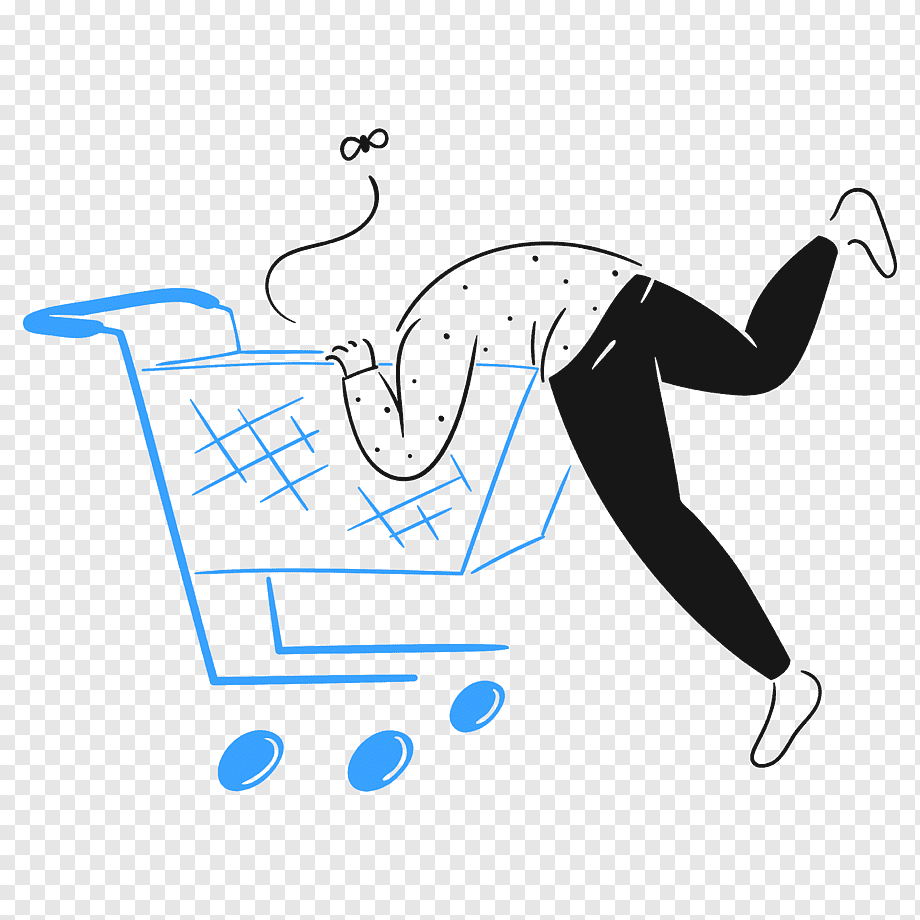
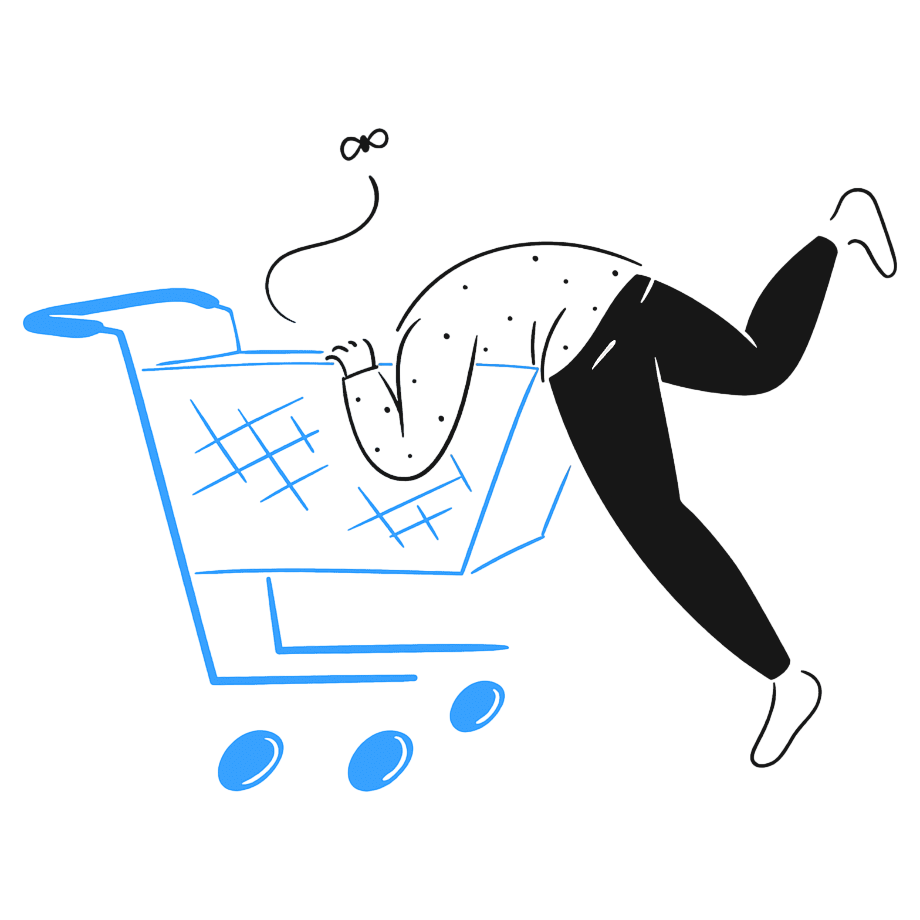
feat: add cart page with empty state and access control
- Add cart page with product list and order summary
- Add EmptyCart component with illustration and CTA
- Add NoAccess component for unauthenticated users
- Update CartIcon to reflect cart item count
- Update button variants to support new UI needs

diff --git a/app/(client)/cart/page.tsx b/app/(client)/cart/page.tsx
@@ -1,0 +1,74 @@
+"use client";
+import Container from "@/components/Container";
+import EmptyCart from "@/components/EmptyCart";
+import NoAccess from "@/components/NoAccess";
+import { Title } from "@/components/ui/text";
+import { Address } from "@/sanity.types";
+import { urlFor } from "@/sanity/lib/image";
+import useStore from "@/store";
+import { useAuth, useUser } from "@clerk/nextjs";
+import { ShoppingBag } from "lucide-react";
+import Image from "next/image";
+import Link from "next/link";
+import React, { useState } from "react";
+
+const CartPage = () => {
+  const {
+    deleteCartProduct,
+    getTotalPrice,
+    getItemCount,
+    getSubTotalPrice,
+    resetCart,
+  } = useStore();
+  const [isClient, setIsClient] = useState(false);
+  const [loading, setLoading] = useState(false);
+  const groupedItems = useStore((state) => state.getGroupedItem());
+  const { isSignedIn } = useAuth();
+  const { user } = useUser();
+  const [adresses, setAddresses] = useState<null>(null);
+  const [selectedAddress, setSelectedAddress] = useState<Address | null>(null);
+
+  return (
+    <div className="pb-52 md:pb-10">
+      {isSignedIn ? (
+        <Container>
+          {groupedItems?.length ? (
+            <>
+              <div className="flex items-center gap-2 py-5">
+                {" "}
+                <ShoppingBag className="text-darkColor"/> 
+                <Title>Shopping Cart</Title>
+              </div>
+              <div className="grid lg:grid-cols-3 md:gap-8">
+                <div className="lg:col-span-2 rounded-lg">
+                  <div className="border rounded-md">
+                    {groupedItems?.map(({product}) => {
+                      const itemCount = getItemCount(product?._id)
+                      return (
+                        <div key={product?._id} className="border-b p-2.5 last:border-b-0">
+                          <div>
+                            {product?.images && 
+                            <Link href={`/product/${product?.slug?.current}`}>
+                            <Image src={urlFor(product?.images[0]).url()} alt='Product Image' width={500} height={500} loading="lazy" className="w-32 md:w-40 h-32 md:h-40 object-contain border-r"/>
+                            </Link>}
+                          </div>
+                        </div>
+                      )
+                    })}
+                  </div>
+                </div>
+                <div>Sumary</div>
+              </div>
+            </>
+          ) : (
+            <EmptyCart />
+          )}
+        </Container>
+      ) : (
+        <NoAccess />
+      )}
+    </div>
+  );
+};
+
+export default CartPage;

diff --git a/components/EmptyCart.tsx b/components/EmptyCart.tsx
@@ -1,0 +1,61 @@
+import React from "react";
+import { motion } from "motion/react";
+import Image from "next/image";
+import { emptyCart } from "@/images";
+import { ShoppingCart } from "lucide-react";
+import Link from "next/link";
+const EmptyCart = () => {
+  return (
+    <div className="flex items-center justify-center bg-linear-to-b from-gray-50 to-white p-4 py-10 md:py-20">
+      <motion.div
+        initial={{ opacity: 0, y: 20 }}
+        animate={{ opacity: 1, y: 0 }}
+        transition={{ duration: 0.5 }}
+        className="w-full max-w-md space-y-8 rounded-2xl bg-white p-8 shadow-xl"
+      >
+        <motion.div
+          animate={{
+            scale: [1, 1.1, 1],
+            rotate: [0, 5, -5, 0],
+          }}
+          transition={{
+            repeat: Infinity,
+            duration: 5,
+            ease: "easeInOut",
+          }}
+          className="relative mx-auto h-48 w-48"
+        >
+          <Image
+            src={emptyCart}
+            alt="Empty shopping cart"
+            layout="fill"
+            objectFit="contain"
+            className="drop-shadow-lg"
+          />
+          <motion.div>
+            <ShoppingCart size={24} className="text-white" />
+          </motion.div>
+        </motion.div>
+        <div className="text-center space-y-4">
+          <h2 className="text-3xl font-bold text-gray-800">
+            Your cart is feeling lonely
+          </h2>
+          <p className="text-gray-600">
+            It looks like you haven&apos;t added anything to your cart yet.
+            Let&apos;s change that and find some amazing products for you!
+          </p>
+        </div>
+        <div>
+          <Link
+            href="/"
+            className="block bg-shop_btn_dark_green/80 border text-white text-center py-2.5 rounded-full text-sm font-semibold tracking-wide hover:bg-shop_btn_dark_green hover:bg-dark-color hoverEffect"
+          >
+            Discover Products
+          </Link>
+        </div>
+      </motion.div>
+    </div>
+  );
+};
+
+export default EmptyCart;

diff --git a/components/NoAccess.tsx b/components/NoAccess.tsx
@@ -1,0 +1,42 @@
+import React from "react";
+import { Card, CardContent, CardFooter, CardHeader, CardTitle } from "./ui/card";
+import Logo from "./Logo";
+import { SignInButton, SignUpButton } from "@clerk/nextjs";
+import { Button } from "./ui/button";
+
+const NoAccess = ({
+  details = "Log in to view your cart items and checkout. Don't miss out on your favorite products!",
+}: {
+  details?: string;
+}) => {
+  return (
+    <div className="flex items-center justify-center p-4 py-12 md:py-32">
+      <Card className="w-full max-w-md p-5">
+        <CardHeader className="flex flex-col items-center gap-1">
+          <Logo />
+          <CardTitle className="text-center text-2xl font-bold">
+            Welcome Back!
+          </CardTitle>
+        </CardHeader>
+        <CardContent className="space-y-3">
+          <p className="text-center font-medium text-darkColor/80">{details}</p>
+        <SignInButton mode="modal">
+          <Button className="w-full" size='lg'>Sign in</Button>
+        </SignInButton>
+        </CardContent>
+        <CardFooter className="flex flex-col space-y-2">
+          <div className="text-sm text-muted-foreground text-center">
+            Don&rsquo;t have an account?
+          </div>
+          <SignUpButton mode="modal">
+            <Button variant='outline' className="w-full" size='lg'>
+              Create an account
+            </Button>
+          </SignUpButton>
+        </CardFooter>
+      </Card>
+    </div>
+  );
+};
+
+export default NoAccess;

diff --git a/app/(client)/product/[slug]/page.tsx b/app/(client)/product/[slug]/page.tsx
@@ -13,12 +13,15 @@ import { TbTruckDelivery } from 'react-icons/tb';
 import { FiShare2 } from 'react-icons/fi';
 import { Button } from '@/components/ui/button';
 import ProductDetailsReviews from '@/components/ProductDetailsReviews';
+import { notFound } from 'next/navigation';
 
 const SingleProductPage = async ({ params }: { params: Promise<{ slug: string }> }) => {
   const { slug } = await params;
   const product = await getProductBySlug(slug);
   const isStock = (product?.stock as number) > 0;
-
+  if (!product) {
+    return notFound()
+  }
   return (
     <>
     <Container className='flex flex-col md:flex-row gap-10 py-10'>

diff --git a/components/ui/button.tsx b/components/ui/button.tsx
@@ -9,7 +9,7 @@ const buttonVariants = cva(
   {
     variants: {
       variant: {
-        default: "bg-primary text-primary-foreground [a]:hover:bg-primary/80",
+        default: "bg-shop_btn_dark_green/80 text-white font-semibold shadow hover:bg-shop_btn_dark_green hoverEffect",
         outline:
           "border-border bg-background hover:bg-muted hover:text-foreground aria-expanded:bg-muted aria-expanded:text-foreground dark:border-input dark:bg-input/30 dark:hover:bg-input/50",
         secondary:

diff --git a/components/CartIcon.tsx b/components/CartIcon.tsx
@@ -7,7 +7,7 @@ import useStore from "@/store";
 function CartIcon() {
   const { items } = useStore();
   return (
-    <Link href={"/card"} className="group relative">
+    <Link href={"/cart"} className="group relative">
       <ShoppingBag className="hover:text-shop_light_green hoverEffect h-5 w-5" />
       <span className="bg-shop_dark_green absolute -top-1 -right-1 flex h-3.5 w-3.5 items-center justify-center rounded-full font-semibold text-white">
         {" "}
